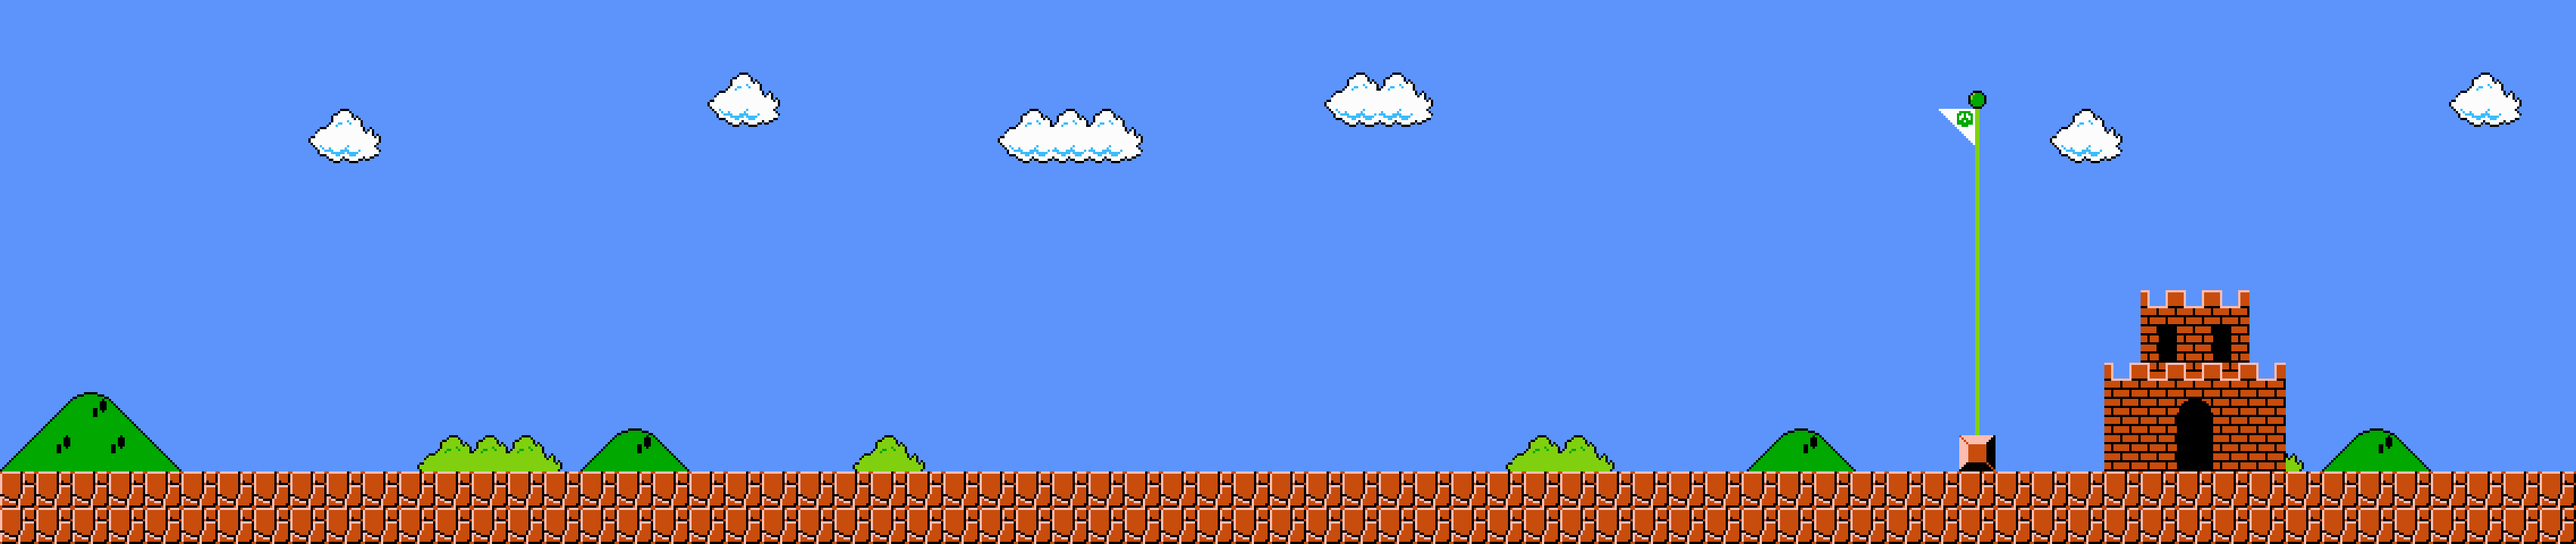
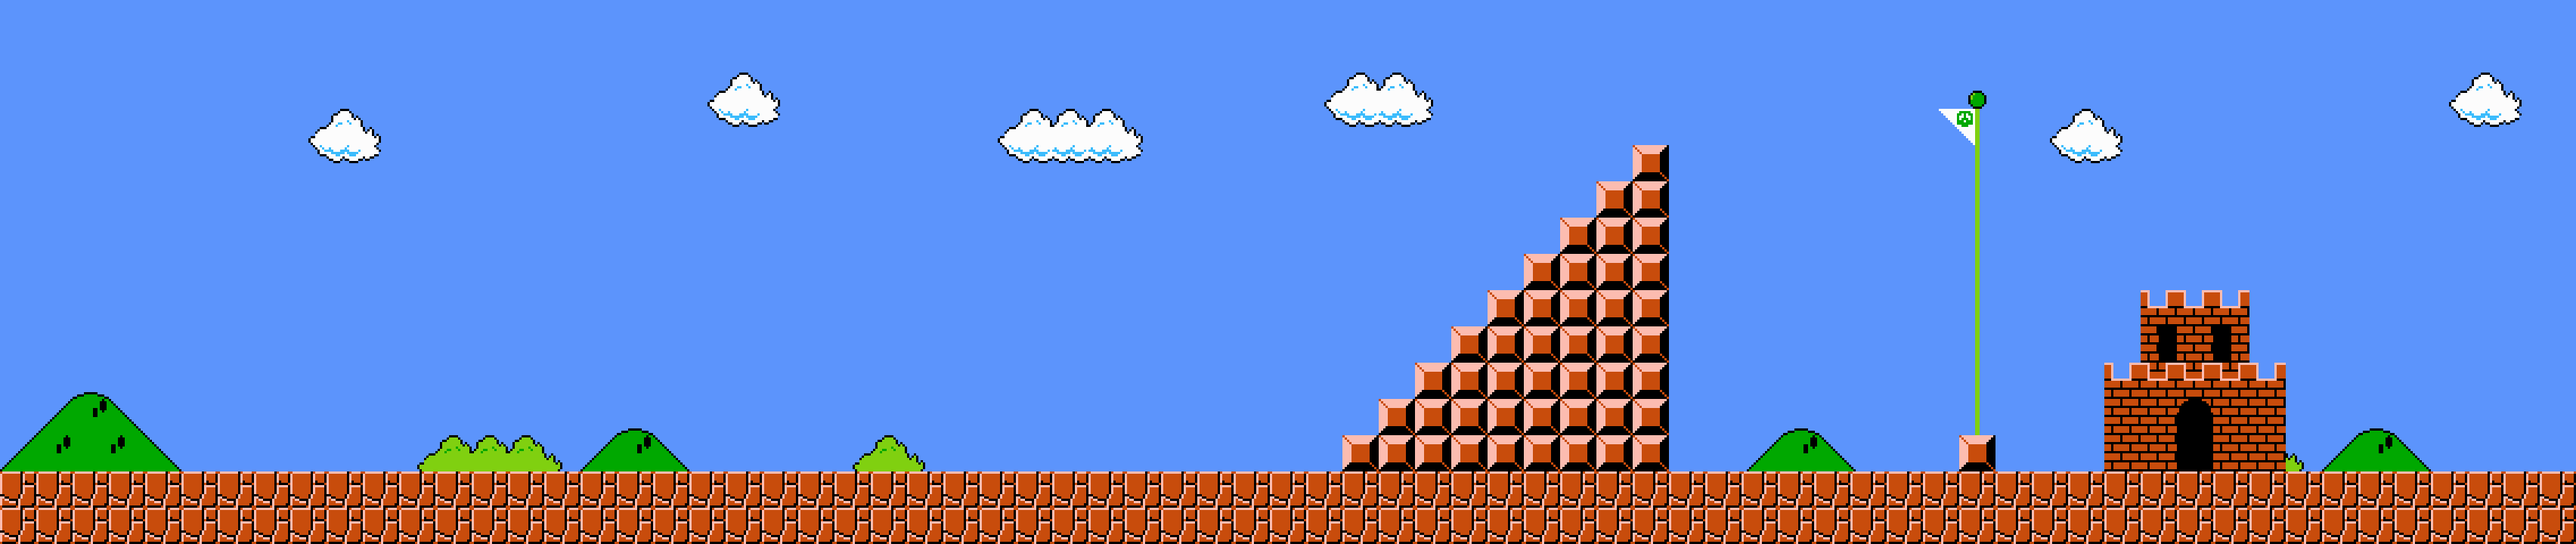
fix: 오디오 스레드 계속 생성되는 문제 해결, 맵이미지 수정

Changed region(s): [[0.4977, 0.2444, 0.6532, 0.8861]]

diff --git a/src/audio/Audio.java b/src/audio/Audio.java
@@ -3,7 +3,8 @@ package audio;
 import java.io.File;
 import java.io.IOException;
 import java.net.URISyntaxException;
-import java.util.Vector;
+import java.util.HashMap;
+import java.util.Map;
 
 import javax.sound.sampled.AudioInputStream;
 import javax.sound.sampled.AudioSystem;
@@ -16,7 +17,7 @@ public class Audio {
 	private static Audio audio = new Audio();
 	private File file;
 	private Clip background;
-	private Vector<Clip> clips = new Vector<Clip>();
+	private Map<String, Clip> clips = new HashMap<String, Clip>();
 	
 	private Audio() {
 	}
@@ -34,33 +35,40 @@ public class Audio {
 			background.loop(Clip.LOOP_CONTINUOUSLY);	// 반복 재생
 	}
 	
-	public Clip play(String name) {
-		Clip clip = null;
-		try {
-			//InputStream audioSrc = getClass().getResourceAsStream("/sound/" + name + ".wav");
-            //InputStream bufferedIn = new BufferedInputStream(audioSrc);
-			
-			file = new File(getClass().getResource("/sound/" + name + ".wav").toURI());
-			AudioInputStream ais = AudioSystem.getAudioInputStream(file);
-			clip = AudioSystem.getClip();
-			clips.add(clip);
-			clip.open(ais);
-			clip.start();	
-		} catch (IOException e) {
-			e.printStackTrace();	
-		} catch (UnsupportedAudioFileException e) {
-			e.printStackTrace();
-		} catch (LineUnavailableException e) {
-			e.printStackTrace();
-		} catch (URISyntaxException e) {
-			// TODO Auto-generated catch block
-			e.printStackTrace();
+	public synchronized Clip play(String name) {
+		Clip clip = clips.get(name);
+		if(clip == null) {
+			try {
+				//InputStream audioSrc = getClass().getResourceAsStream("/sound/" + name + ".wav");
+	            //InputStream bufferedIn = new BufferedInputStream(audioSrc);
+				
+				file = new File(getClass().getResource("/sound/" + name + ".wav").toURI());
+				AudioInputStream ais = AudioSystem.getAudioInputStream(file);
+				clip = AudioSystem.getClip();
+				clip.open(ais);
+				clips.put(name, clip);
+				
+			} catch (IOException e) {
+				e.printStackTrace();	
+			} catch (UnsupportedAudioFileException e) {
+				e.printStackTrace();
+			} catch (LineUnavailableException e) {
+				e.printStackTrace();
+			} catch (URISyntaxException e) {
+				// TODO Auto-generated catch block
+				e.printStackTrace();
+			}
 		}
+		if(clip.isRunning())
+			clip.stop();
+		clip.setFramePosition(0);
+		clip.start();
+		
 		return clip;
 	}
 	
 	public void closeAll() {
-		for(Clip c : clips) {
+		for(Clip c : clips.values()) {
 			c.close();
 		}
 		clips.clear();
